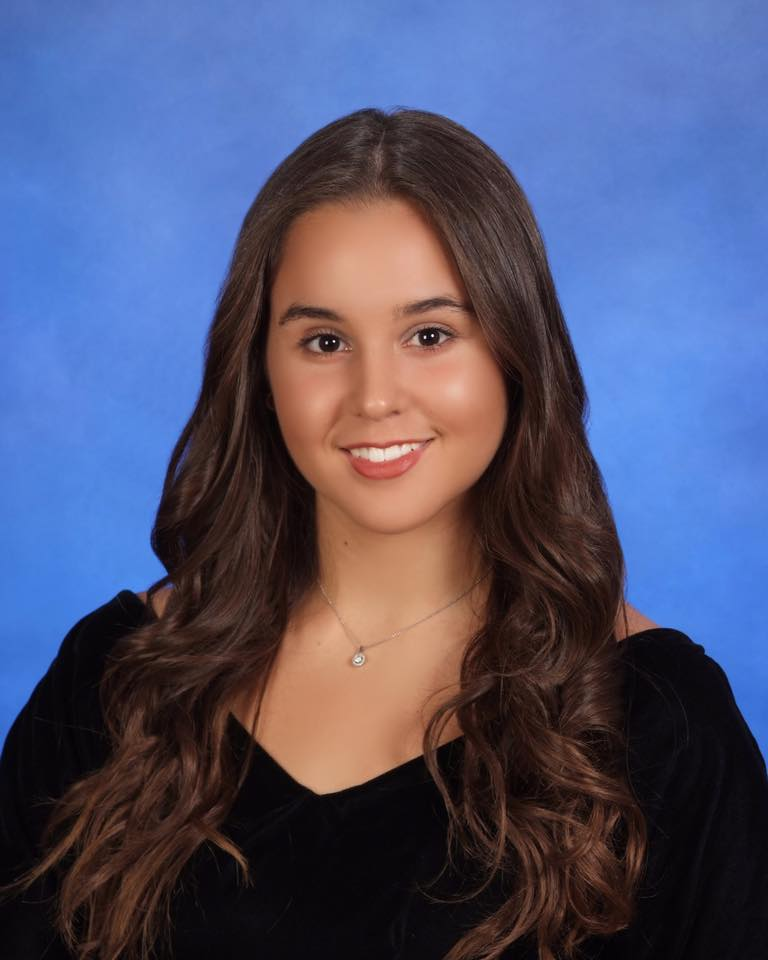
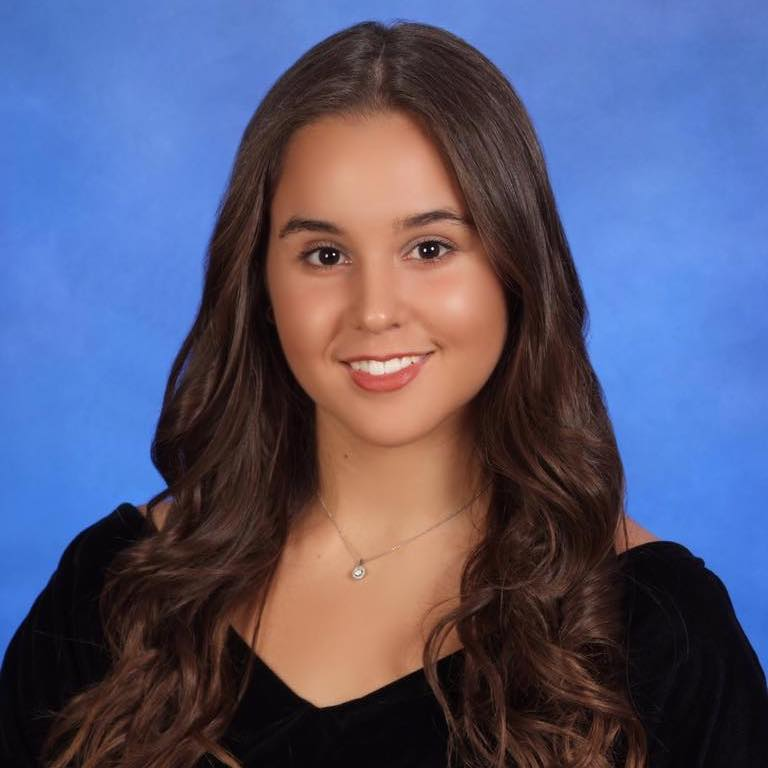
fix board page photo alignment

diff --git a/about/board/index.html b/about/board/index.html
@@ -294,7 +294,7 @@
 		<br>
 		<div class="col-md-3 col-sm-3">
 				<div class="member-container">						
-					<div class="crop"><img src="../board_pics/Lillian_Bu.jpg" class="member-image" alt="" /></div>
+					<img src="../board_pics/Lillian_Bu.jpg" class="member-image" alt="" />
 					<div class="member-overlay"> 
 						<div class="member-text"> 
 							<div><strong> Course 6-3 Class of 2021</strong></div> 
@@ -322,7 +322,7 @@
 
 		<div class="col-md-3 col-sm-3">
 			<div class="member-container">						
-				<div class="crop"><img src="../board_pics/Rebekah_Costello.jpg" class="member-image" alt="" /></div>
+				<img src="../board_pics/Rebekah_Costello.jpg" class="member-image" alt="" />
 				<div class="member-overlay"> 
 					<div class="member-text"> 
 						<div><strong> Course 20 Class of 2020 </strong></div> 
@@ -396,7 +396,7 @@
 
 			<div class="col-md-3 col-sm-3">
 				<div class="member-container">						
-					<div class="crop"><img src="../board_pics/Rebecca_McCabe.jpg" class="member-image" alt="" /></div>
+					<img src="../board_pics/Rebecca_McCabe.jpg" class="member-image" alt="" />
 					<div class="member-overlay"> 
 						<div class="member-text"> 
 							<div><strong> Course 2A-6 Class of 2021</strong></div> 
@@ -417,7 +417,7 @@
 	<br>
 			<div class="col-md-3 col-sm-3">
 				<div class="member-container">						
-					<div class="crop"><img src="../board_pics/Grace_Lam.jpg" class="member-image" alt="" /></div>
+					<img src="../board_pics/Grace_Lam.jpg" class="member-image" alt="" />
 					<div class="member-overlay"> 
 						<div class="member-text"> 
 							<div><strong> Course 6-3 Class of 2020</strong></div> 
@@ -488,7 +488,7 @@
 
 			<div class="col-md-3 col-sm-3">
 				<div class="member-container">						
-					<div class="crop"><img src="../board_pics/Andrea_BolivarMatos.jpg" class="member-image" alt="" /></div>
+					<img src="../board_pics/Andrea_BolivarMatos.jpg" class="member-image" alt="" />
 					<div class="member-overlay"> 
 						<div class="member-text"> 
 							<div><strong> Course 6-2 Class of 2020</strong></div> 
@@ -563,7 +563,7 @@
 	<br>
 			<div class="col-md-3 col-sm-3">
 				<div class="member-container">						
-					<div class="crop"><img src="../board_pics/Ashley_Wang.jpg" class="member-image" alt="" /></div>
+					<img src="../board_pics/Ashley_Wang.jpg" class="member-image" alt="" />
 					<div class="member-overlay"> 
 						<div class="member-text"> 
 							<div><strong> Course 6-14 Class of 2021</strong></div> 
@@ -577,7 +577,7 @@
 
 			<div class="col-md-3 col-sm-3">
 				<div class="member-container">						
-					<div class="crop"><img src="../board_pics/Katherine_Wang.jpg" class="member-image" alt="" /></div>
+					<img src="../board_pics/Katherine_Wang.jpg" class="member-image" alt="" />
 					<div class="member-overlay"> 
 						<div class="member-text"> 
 							<div><strong> Course 6-3 Class of 2019</strong></div> 
@@ -591,7 +591,7 @@
 
 			<div class="col-md-3 col-sm-3">
 				<div class="member-container">						
-					<div class="crop"><img src="../board_pics/Koumani_Ntowe.jpg" class="member-image" alt="" /></div>
+					<img src="../board_pics/Koumani_Ntowe.jpg" class="member-image" alt="" />
 					<div class="member-overlay"> 
 						<div class="member-text"> 
 							<div><strong> Course 20 Class of 2021</strong></div> 
@@ -605,7 +605,7 @@
 
 			<div class="col-md-3 col-sm-3">
 				<div class="member-container">						
-					<div class="crop"><img src="../board_pics/Priscilla_Wong.jpg" class="member-image" alt="" /></div>
+					<img src="../board_pics/Priscilla_Wong.jpg" class="member-image" alt="" />
 					<div class="member-overlay"> 
 						<div class="member-text"> 
 							<div><strong> Course 6-3 Class of 2020</strong></div> 
@@ -650,7 +650,7 @@
 
 			<div class="col-md-3 col-sm-3">
 					<div class="member-container">						
-						<div class="crop"><img src="../board_pics/JaeHyun_Kim.jpg" class="member-image" alt="" /> </div>
+						<img src="../board_pics/JaeHyun_Kim.jpg" class="member-image" alt="" />
 						<div class="member-overlay"> 
 							<div class="member-text"> 
 								<div><strong> Course 3 Class of 2018 </strong></div> 
@@ -848,7 +848,7 @@
 
 			<div class="col-md-3 col-sm-3">
 				<div class="member-container">						
-					<div class="crop"><img src="../board_pics/Monica_Pham.jpg" class="member-image" alt="" /></div>
+					<img src="../board_pics/Monica_Pham.jpg" class="member-image" alt="" />
 					<div class="member-overlay"> 
 						<div class="member-text"> 
 							<div><strong> Course 22 Class of 2019</strong></div> 
@@ -907,7 +907,7 @@
 <div class="row"> 
 			<div class="col-md-3 col-sm-3">
 				<div class="member-container">						
-					<div class="crop"><img src="../board_pics/Emily_Zhang.png" class="member-image" alt="" /></div>
+					<img src="../board_pics/Emily_Zhang.png" class="member-image" alt="" />
 					<div class="member-overlay"> 
 						<div class="member-text"> 
 							<div><strong> Course 2A-6 Class of 2020</strong></div> 
@@ -1042,7 +1042,7 @@
 			</div>
 			<div class="col-md-3 col-sm-3">
 				<div class="member-container">						
-					<div class="crop"><img src="../board_pics/Sabrina_Liu.jpg" class="member-image" alt="" /></div>
+				    <img src="../board_pics/Sabrina_Liu.jpg" class="member-image" alt="" />
 					<div class="member-overlay"> 
 						<div class="member-text"> 
 							<div><strong> Course 6-2 Class of 2021</strong></div> 
@@ -1055,7 +1055,7 @@
 			</div>
             <div class="col-md-3 col-sm-3">
 				<div class="member-container">						
-					<div class="crop"><img src="../board_pics/Annie_Zhang.jpg" class="member-image" alt="" /></div>
+					<img src="../board_pics/Annie_Zhang.jpg" class="member-image" alt="" />
 					<div class="member-overlay"> 
 						<div class="member-text"> 
 							<div><strong> Course 1 Class of 2022</strong></div> 
@@ -1068,7 +1068,7 @@
 			</div>
             <div class="col-md-3 col-sm-3">
 				<div class="member-container">						
-					<div class="crop"><img src="../board_pics/Margaret_Rodriguez.jpg" class="member-image" alt="" /></div>
+					<img src="../board_pics/Margaret_Rodriguez.jpg" class="member-image" alt="" />
 					<div class="member-overlay"> 
 						<div class="member-text"> 
 							<div><strong> Course 20, 15-3 Class of 2022</strong></div> 
